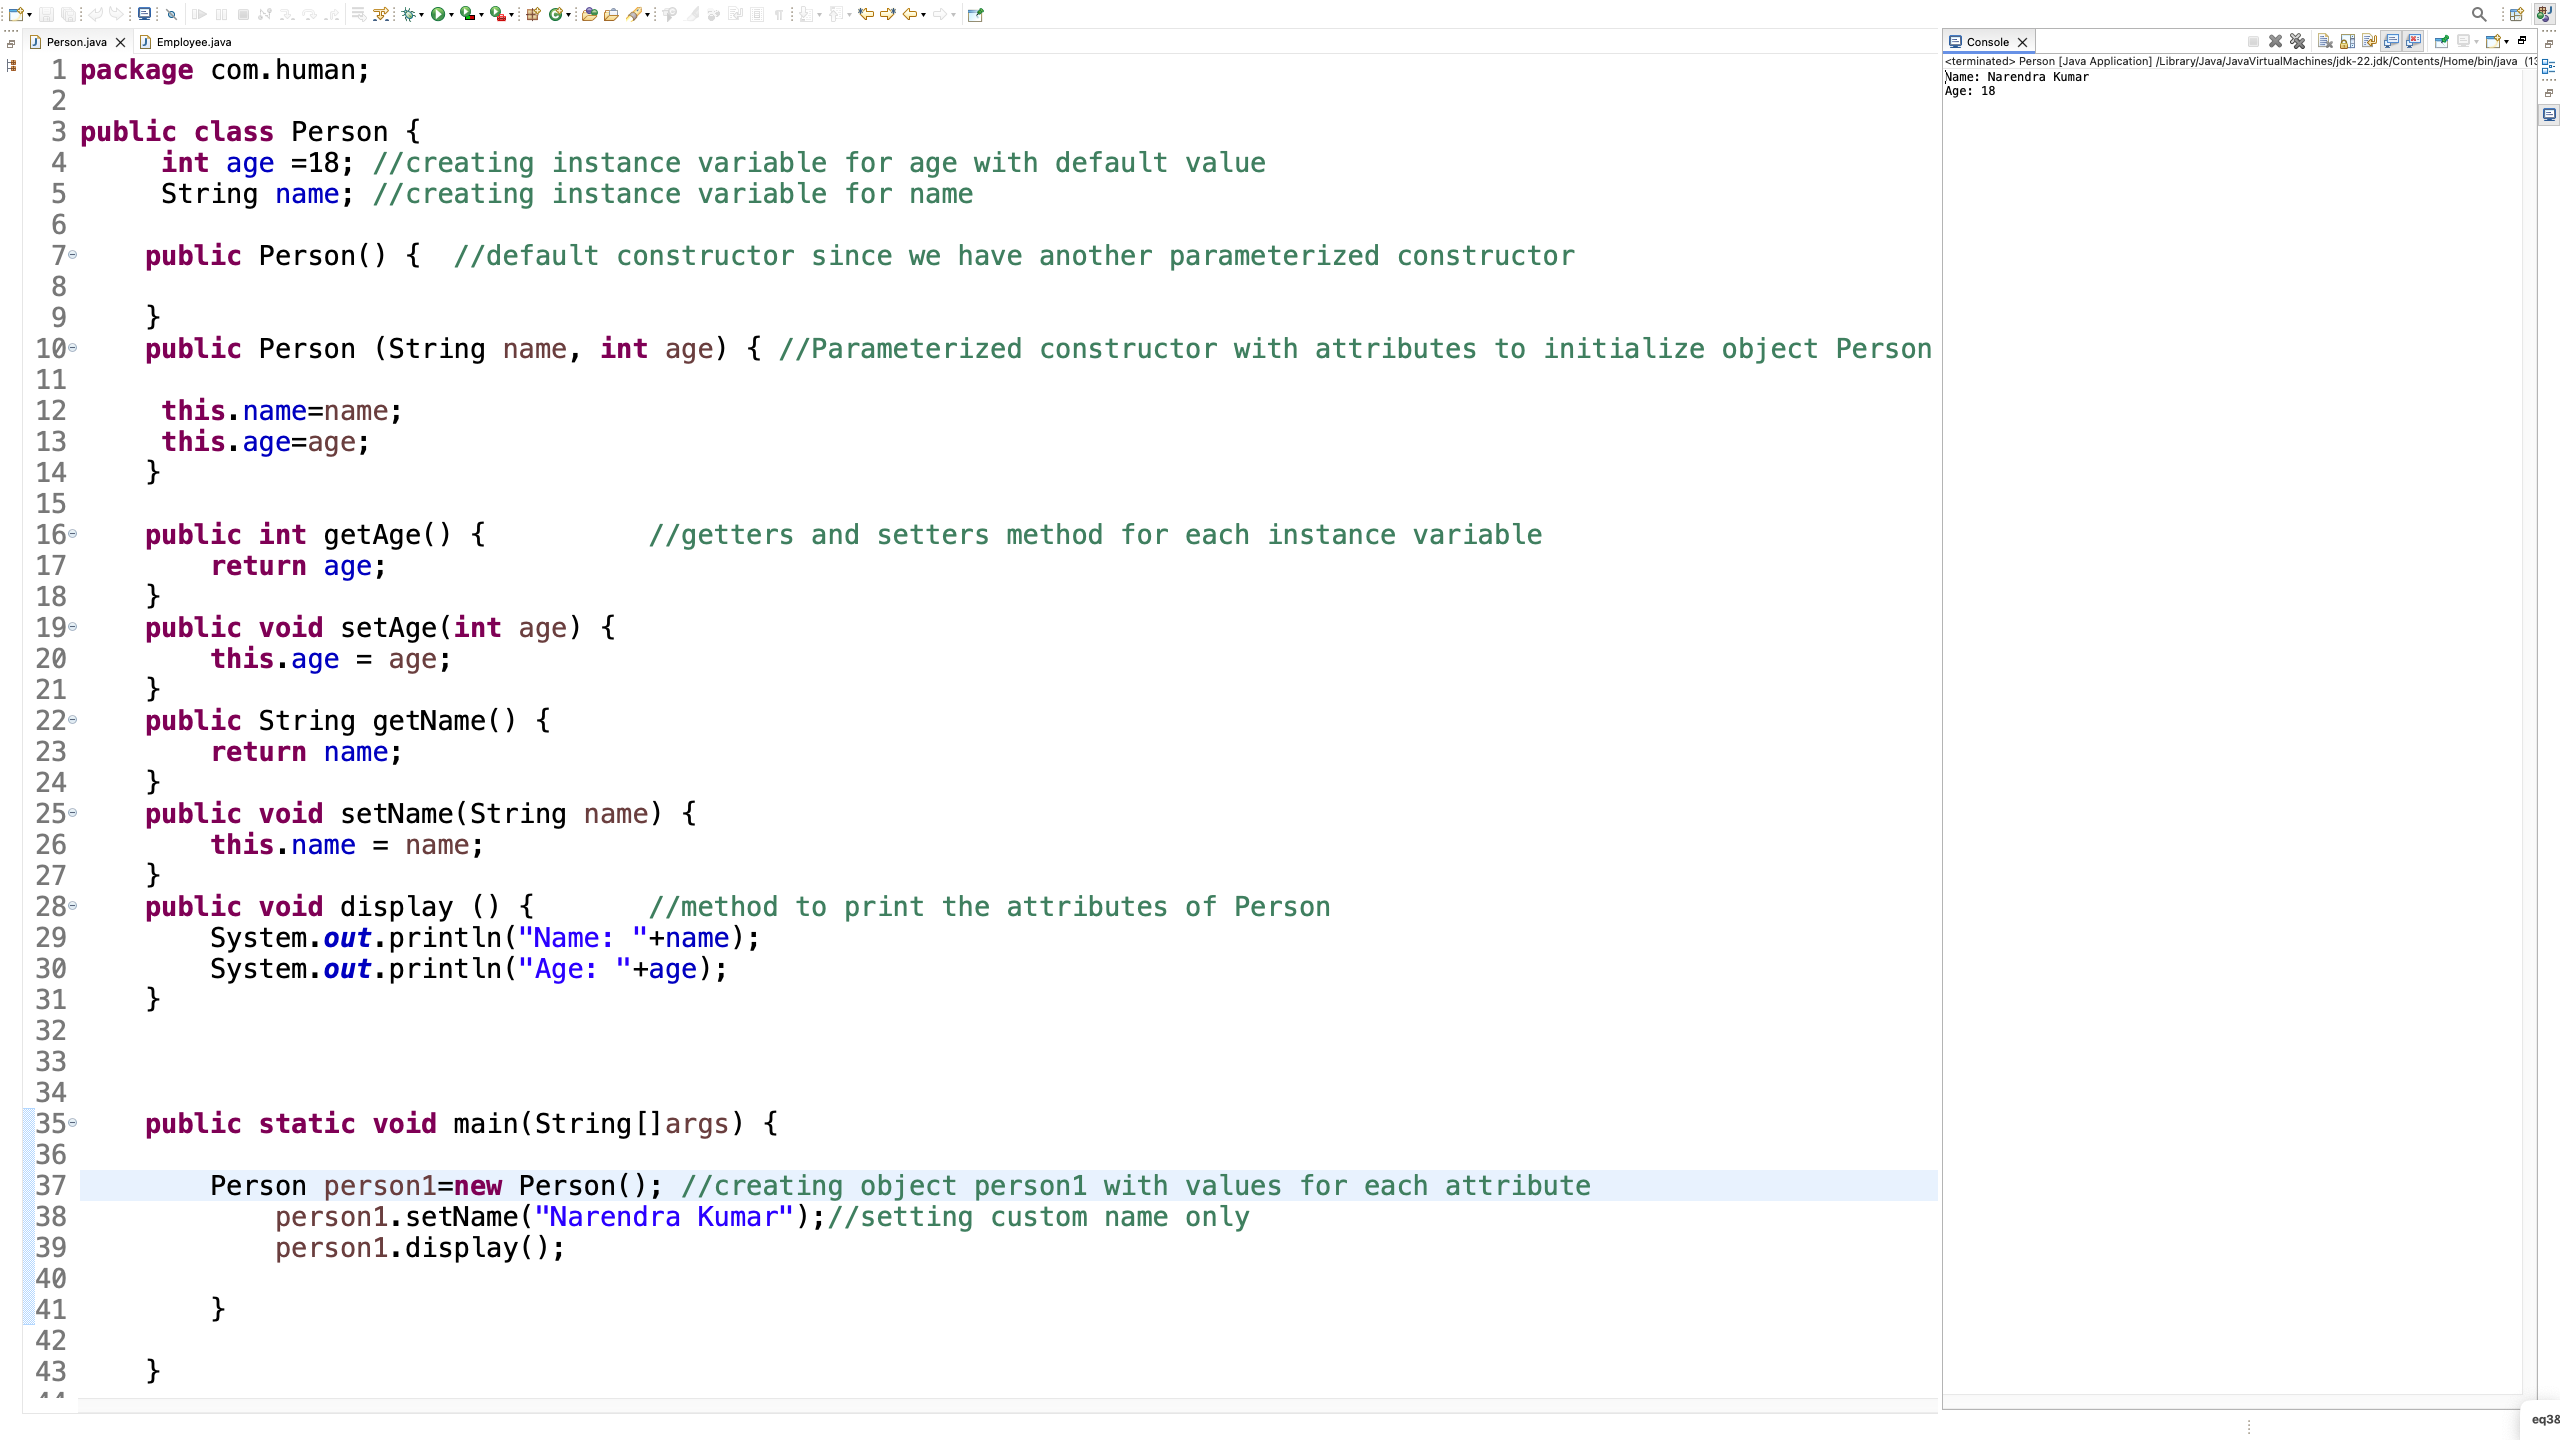
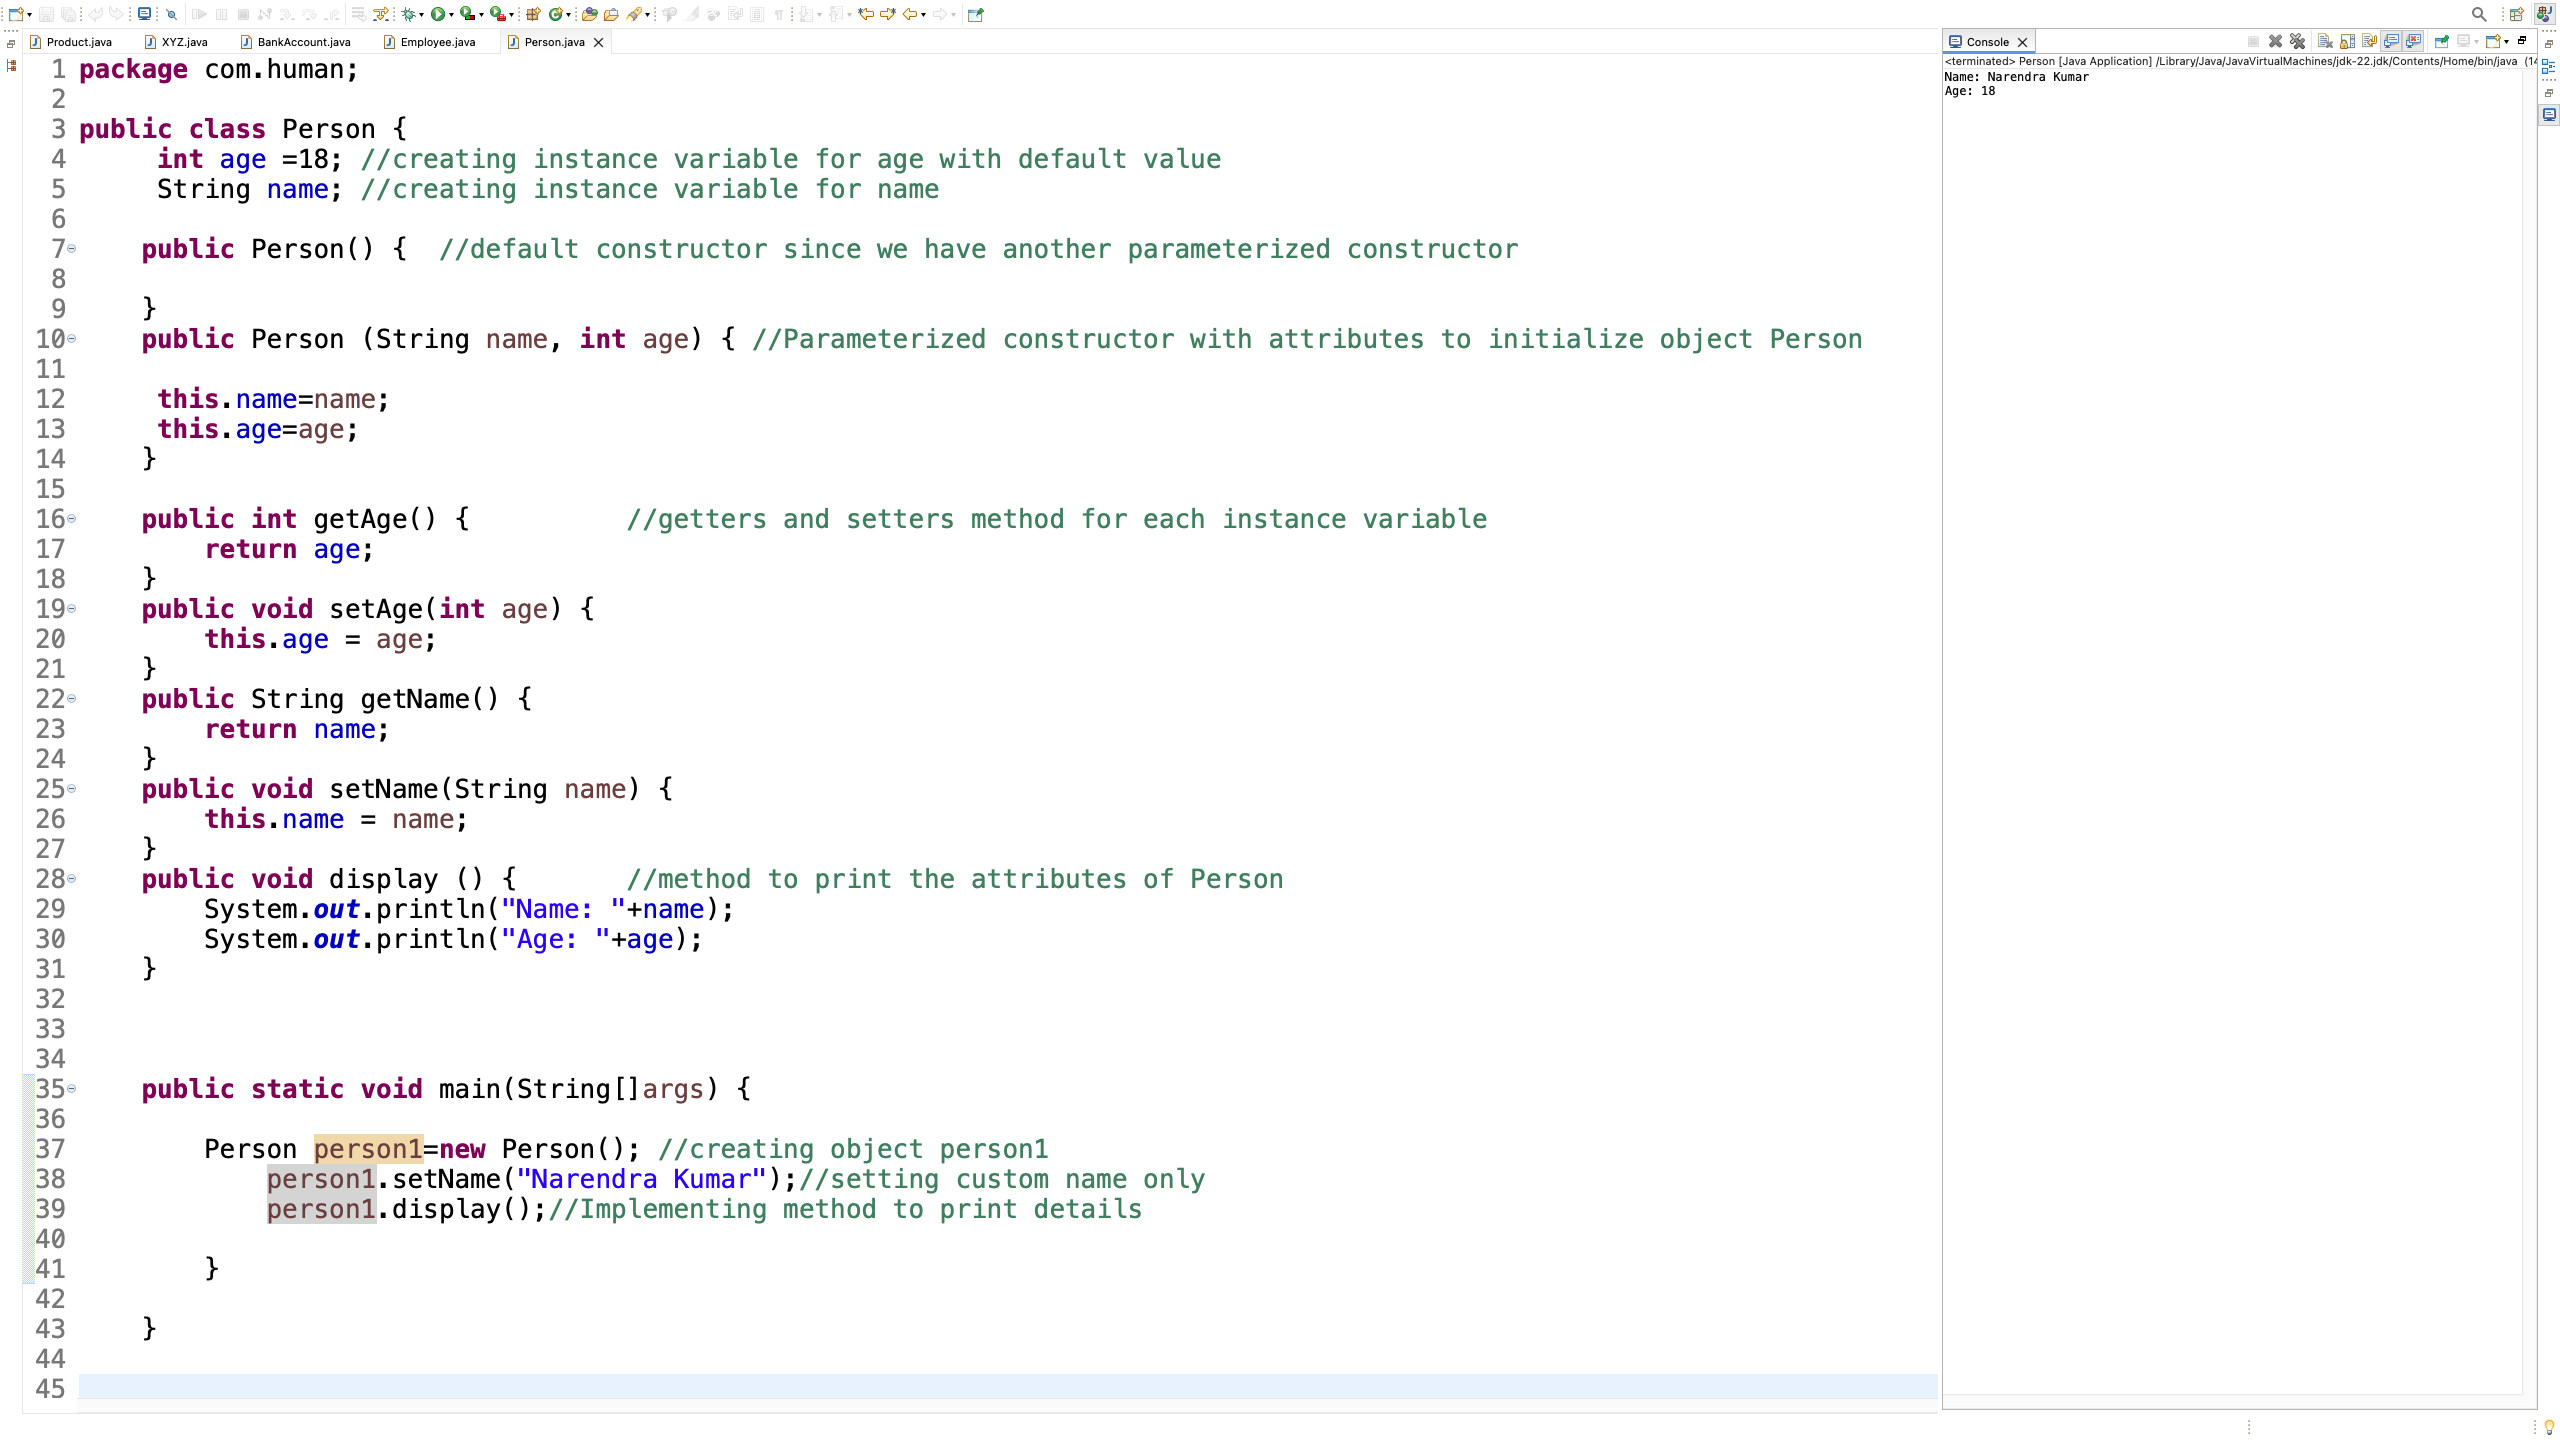
final verson

diff --git a/src/com/Banking/BankAccount.java b/src/com/Banking/BankAccount.java
@@ -74,9 +74,9 @@ public class BankAccount {
 		
 		BankAccount bankAcc1=new BankAccount("Narendra Kumar",50000); // creating object with name and age attributes 
 		 
-		 bankAcc1.display();    // calling method to print 
-		 bankAcc1.deposit();    // calling method to add balance 
-	     bankAcc1.withdrawal(); // calling method to withdraw balance 
+		 bankAcc1.display();    // Implementing method to print 
+		 bankAcc1.deposit();    // Implementing method to add balance 
+	     bankAcc1.withdrawal(); // Implementing method to withdraw balance 
 	}
 
 }

diff --git a/src/com/shop/XYZ.java b/src/com/shop/XYZ.java
@@ -44,8 +44,8 @@ public class XYZ {
 			
 			double totalAmount=0;      //initialize total amount 
 			
-			for(int i=0;i<products.length;i++) {  //logic to get total amount 
-				totalAmount+=products[i].getQuantity()*products[i].getPrice();
+			for(int i=0;i<products.length;i++) {  //for loop to check all products
+				totalAmount+=products[i].getQuantity()*products[i].getPrice();//logic to get total amount 
 			}
 			    return totalAmount;    // returning total amount
 		}

diff --git a/src/com/human/Employee.java b/src/com/human/Employee.java
@@ -59,6 +59,6 @@ public class Employee  extends Person  {  //creating class Employee that inherit
 		public static void main(String[]args) {
 			
 			 Employee employee1=new Employee("100A", 50000, "Developer", 25, "Narendra Kumar");	//creating object employee1 with values for each attribute		
-			          employee1.dispalayEmplyeeDetails();
+			          employee1.dispalayEmplyeeDetails();//implementing method to print details 
 		}
 }

diff --git a/src/com/human/Person.java b/src/com/human/Person.java
@@ -34,9 +34,9 @@ public class Person {
 	
 	public static void main(String[]args) {  
 		
-		Person person1=new Person(); //creating object person1 with values for each attribute	
+		Person person1=new Person(); //creating object person1 	
 			person1.setName("Narendra Kumar");//setting custom name only 
-			person1.display();
+			person1.display();//Implementing method to print details 
 					
 	    }
 		
